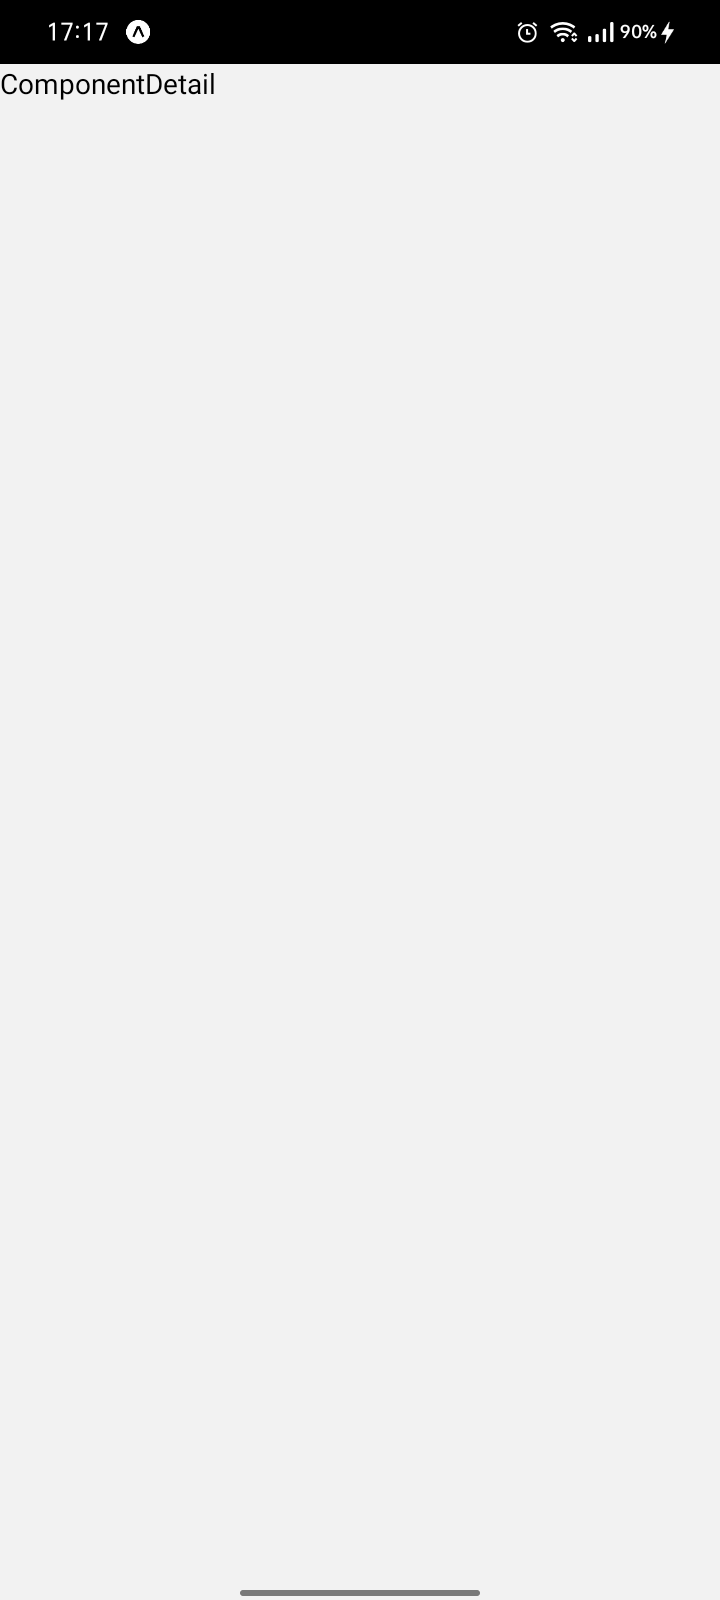
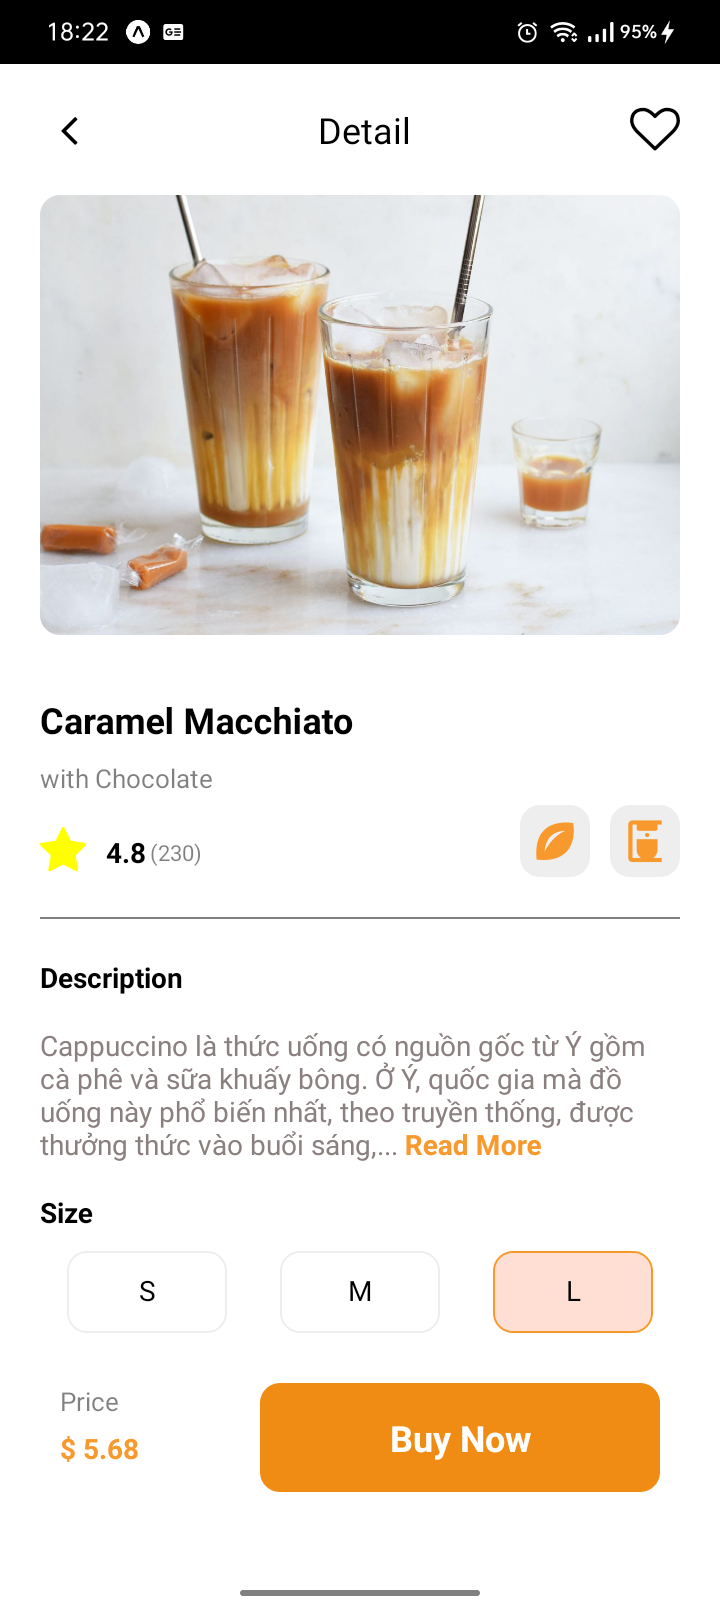
detail( 60% ): finish giao dien

diff --git a/App-onTapTH/src/components/ComponentDetail.js b/App-onTapTH/src/components/ComponentDetail.js
@@ -1,13 +1,100 @@
-import { View, Text } from 'react-native'
+import { View, Text, TouchableOpacity, Image } from 'react-native'
 import React from 'react'
+import IconFontAwesome from 'react-native-vector-icons/FontAwesome'
+import IconMaterialCommunityIcons from 'react-native-vector-icons/MaterialCommunityIcons'
+//   <Icon name="rocket" color="#eee" size={30} />
+
+import dbCoffeeLocal from '../database/dataLocal';
+import styles from '../themes/styles';
 
 const ComponentDetail = ({ navigation, route }) => {
     console.log("🚀 ~ file: ComponentDetail.js ~ line 5 ~ ComponentDetail ~ 😜😜😜😜😜",)
 
     let { item } = route.params;
     return (
-        <View>
-            <Text>ComponentDetail</Text>
+        <View style={[styles.flex_1, { padding: 20, backgroundColor: '#fff' }]}  >
+
+            {/*  */}
+            <View style={[styles.row, { alignItems: 'center' }]}  >
+                <TouchableOpacity onPress={() => navigation.navigate('ComponentHome')}>
+                    <IconFontAwesome name='angle-left' size={25} color={'#000'} style={{ paddingHorizontal: 10 }} />
+                </TouchableOpacity>
+                <Text style={[styles.flex_1, { textAlign: 'center', fontSize: 18 }]}  >Detail</Text>
+                <IconFontAwesome name='heart-o' size={25} color={'#000'} />
+            </View>
+
+            {/*  */}
+            <View  style={[  ,{
+                borderBottomWidth: 0.5,
+            }]}  >
+                <Image source={item.img} style={[, { width: '100%', height: 220, borderRadius: 10, marginVertical: 20 }]} />
+
+                <Text style={[, { fontSize: 18, fontWeight: 'bold', marginTop: 10 }]}  >{item.name}</Text>
+                <Text style={[, { fontSize: 13, opacity: 0.5, marginTop: 8 }]}  >with {item.nhaSX}</Text>
+                <View style={[styles.row, {
+                    alignItems: 'center', marginTop: 15,
+                    paddingBottom: 20,
+                }]}  >
+                    <IconFontAwesome name='star' size={25} color="#ff0" />
+                    <Text style={[, { fontWeight: 'bold', marginLeft: 10 }]}  >4.8</Text>
+                    <Text style={[, { fontSize: 11, opacity: 0.5, marginLeft: 2, }]}  >(230)</Text>
+                </View>
+
+                <View  style={[ styles.row ,{
+                    position:'absolute',
+                    bottom: 20,
+                    right: 0,
+                }]}>
+                    <IconMaterialCommunityIcons  style={[  ,{padding: 5, marginRight: 10, backgroundColor:'#eee', borderRadius: 10}]} name='seed' size={25} color="#f7992d" />
+                    <IconMaterialCommunityIcons style={[  ,{padding: 5, backgroundColor:'#eee', borderRadius: 10}]} name='coffee-maker' size={25} color="#f7992d" />
+                </View>
+            </View>
+
+            {/*  */}
+            <View>
+                <Text style={[  ,{fontWeight: 'bold', marginTop: 20,}]}>Description</Text>
+                <Text style={[  ,{marginTop: 15, 
+                    color: '#8a807f',
+                }]}>Cappuccino là thức uống có nguồn gốc từ Ý gồm cà phê và sữa khuấy bông. Ở Ý, quốc gia mà đồ uống này phổ biến nhất, theo truyền thống, được thưởng thức vào buổi sáng,... <Text  style={[  ,{color: '#f7992d', fontWeight: 'bold'}]}>Read More</Text></Text>
+                <Text style={[  ,{fontWeight: 'bold', marginTop: 15,}]}>Size</Text>
+
+                <View style={[ styles.row ,{marginTop: 10, justifyContent: 'space-around'}]}>
+                    <TouchableOpacity >
+                        <Text  style={[ styles.btnSize ,{}]}>S</Text>
+                    </TouchableOpacity>
+                    <TouchableOpacity >
+                        <Text  style={[ styles.btnSize ,{}]}>M</Text>
+                    </TouchableOpacity>
+                    <TouchableOpacity >
+                        <Text  style={[ styles.btnSize, styles.btnSizeClick ,{}]}>L</Text>
+                    </TouchableOpacity>
+                </View>
+            </View>
+
+            {/* ? */}
+            <View style={[ styles.row ,{marginVertical: 25, marginHorizontal: 10, justifyContent:'space-between' }]} >
+                <View style={[  ,{}]} >
+                    <Text style={[  ,{opacity: 0.5, fontSize: 13,}]} >Price</Text>
+                    <Text style={[  ,{paddingVertical: 5, color: '#f7992d', fontWeight: 'bold'}]} >$ {item.money}</Text>
+                </View>
+                <TouchableOpacity onPress={() => {alert('Đang cập nhật.')}}>
+                    <Text style={[  ,{
+                        padding: 15, 
+                        backgroundColor: '#f08c13',
+                        width: 200,
+                        color: '#fff',
+                        textAlign:'center',
+                        fontSize: 18,
+                        fontWeight: 'bold',
+                        borderRadius: 10,
+                    }]} >Buy Now</Text>
+                </TouchableOpacity>
+            </View>
+
+
+
+
+
         </View>
     )
 }

diff --git a/App-onTapTH/src/themes/styles.js b/App-onTapTH/src/themes/styles.js
@@ -13,27 +13,30 @@ export default StyleSheet.create({
     flex_4: {
         flex: 4
     },
+    flex_5: {
+        flex: 5
+    },
     row: {
         flexDirection: "row",
     },
     column: {
         flexDirection: "column",
     },
-    viewCenter:{
-        justifyContent:"center",
-        alignItems:"center"
+    viewCenter: {
+        justifyContent: "center",
+        alignItems: "center"
     },
-    viewCenterTop:{
-        alignItems:"center"
+    viewCenterTop: {
+        alignItems: "center"
     },
 
-    colorMenuDS1:{
-        color:'#fff',
+    colorMenuDS1: {
+        color: '#fff',
         backgroundColor: '#f7992d',
         fontWeight: 'bold',
     },
-    colorMenuDS2:{
-        color:'#000',
+    colorMenuDS2: {
+        color: '#000',
         backgroundColor: '#fff9f2',
     },
     btnOrder_1:
@@ -42,7 +45,20 @@ export default StyleSheet.create({
         color: '#fff',
         backgroundColor: '#f7992d',
         borderRadius: 10,
-    }
+    },
+    btnSize: {
+        padding: 10,
+        textAlign: 'center', 
+        borderRadius: 10,
+        borderWidth: 1, 
+        borderColor: '#eee', 
+        width: 80,
+    },
+    btnSizeClick: {
+        backgroundColor: '#ffded4', 
+        borderColor: '#f7992d', 
+    },
+
 })
 
 
